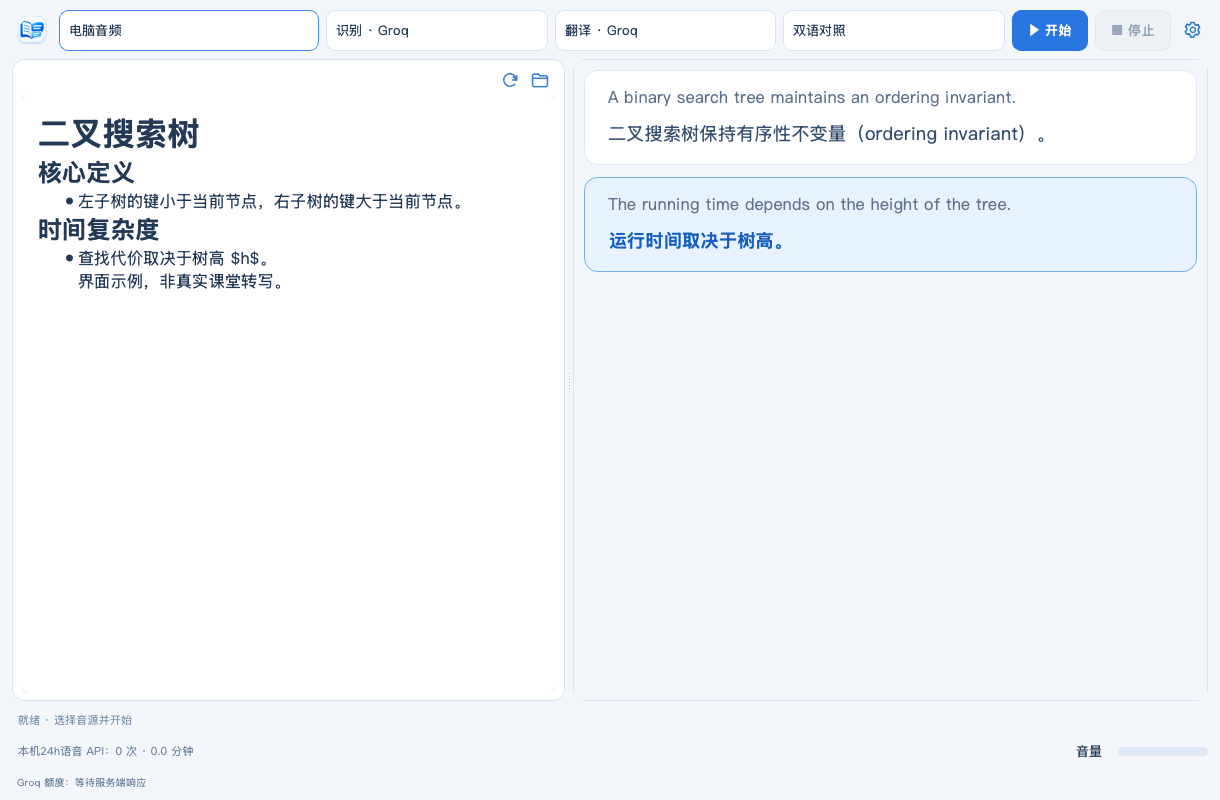
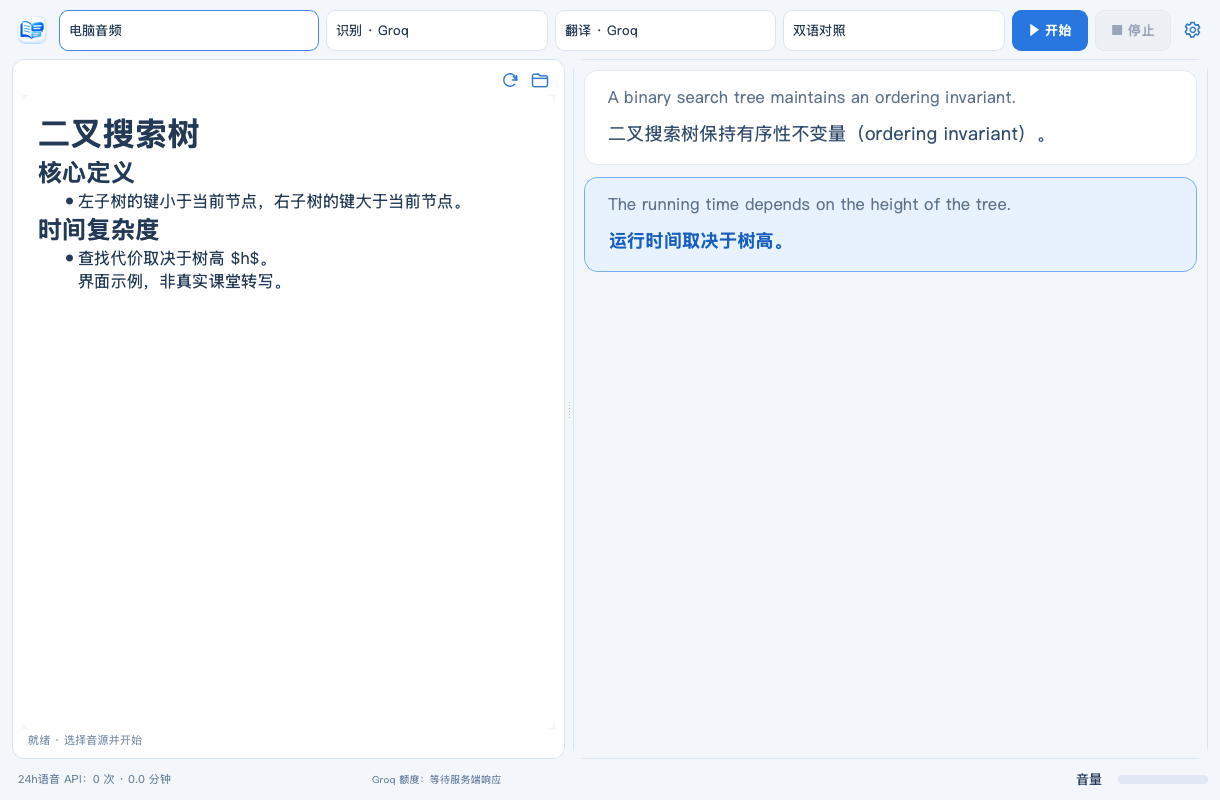
Move status inside notes and combine usage with audio meter

Changed region(s): [[0.0, 0.875, 0.1557, 1.0], [0.3115, 0.9688, 0.4049, 1.0], [0.8721, 0.9375, 0.9033, 1.0]]

diff --git a/caption.py b/caption.py
@@ -385,7 +385,7 @@ class Controls(QWidget):
         self.status.setWordWrap(False)
         self.status.setSizePolicy(QSizePolicy.Ignored, QSizePolicy.Preferred)
         self.status.setStyleSheet("font-size:11px;color:#8295AD;")
-        body.addWidget(self.status)
+        self.notes.layout().addWidget(self.status)
         footer = QHBoxLayout()
         self.quota = QLabel()
         self.quota.setSizePolicy(QSizePolicy.Ignored, QSizePolicy.Preferred)
@@ -406,7 +406,7 @@ class Controls(QWidget):
         self.server_quota.setSizePolicy(QSizePolicy.Ignored, QSizePolicy.Preferred)
         self.server_quota.setStyleSheet("color:#6C829D;font-size:10px;")
         self.server_quota.setToolTip("最近一次 Groq 限额快照，不是费用余额或所有模型的实时总额度。")
-        body.addWidget(self.server_quota)
+        footer.insertWidget(1, self.server_quota, 2)
         self.build_settings(config)
         self.sig.status.connect(self.status.setText)
         self.sig.caption.connect(self.caption)
@@ -417,7 +417,7 @@ class Controls(QWidget):
         self.sig.tested.connect(self.tested)
         self.sig.credential_result.connect(self.credential_result)
         self.sig.level.connect(self.level.setValue)
-        self.sig.quota.connect(self.server_quota.setText)
+        self.sig.quota.connect(self.set_server_quota)
         self.quota_timer = QTimer(self)
         self.quota_timer.timeout.connect(self.refresh_quota)
         self.quota_timer.start(3000)
@@ -563,13 +563,16 @@ class Controls(QWidget):
         local_tr = self.translation_backend.currentData() == "apple"
         st = self.engine.usage.stats()
         self.quota.setText(
-            f"本机24h语音 API：{st['req_day']} 次 · {st['sec_day'] / 60:.1f} 分钟"
-            + ("  |  本地识别不消耗语音额度" if local_stt else "")
+            f"24h语音 API：{st['req_day']} 次 · {st['sec_day'] / 60:.1f} 分钟" + (" · 本地识别" if local_stt else "")
         )
         self.quota.setToolTip(
             "仅本机滚动24小时语音 API 统计，不含其他设备和文字模型；不是账号剩余额度。"
             + (" 当前翻译使用 Apple 本地。" if local_tr else "")
         )
+
+    def set_server_quota(self, message):
+        self.server_quota.setText(message)
+        self.server_quota.setToolTip(message + "\n最近响应快照，不是费用余额或所有模型的实时总额度。")
 
     def prepare_translation(self):
         from local_services import prepare_translation

diff --git a/tests/test_ui.py b/tests/test_ui.py
@@ -57,6 +57,11 @@ class UiTests(unittest.TestCase):
             self.assertFalse(win.notes.isWindow())
             self.assertFalse(win.history.isWindow())
             self.assertFalse(hasattr(win, "pin_button"))
+            self.assertEqual(win.status.parentWidget(), win.notes)
+            self.assertEqual(win.quota.parentWidget(), win)
+            self.assertEqual(win.server_quota.parentWidget(), win)
+            self.assertEqual(win.quota.geometry().y(), win.server_quota.geometry().y())
+            self.assertLess(abs(win.level.geometry().center().y() - win.quota.geometry().center().y()), 3)
             self.assertEqual(win.stt_backend.window(), win)
             self.assertEqual(win.translation_backend.window(), win)
             self.assertFalse(win.notes.has_content)
